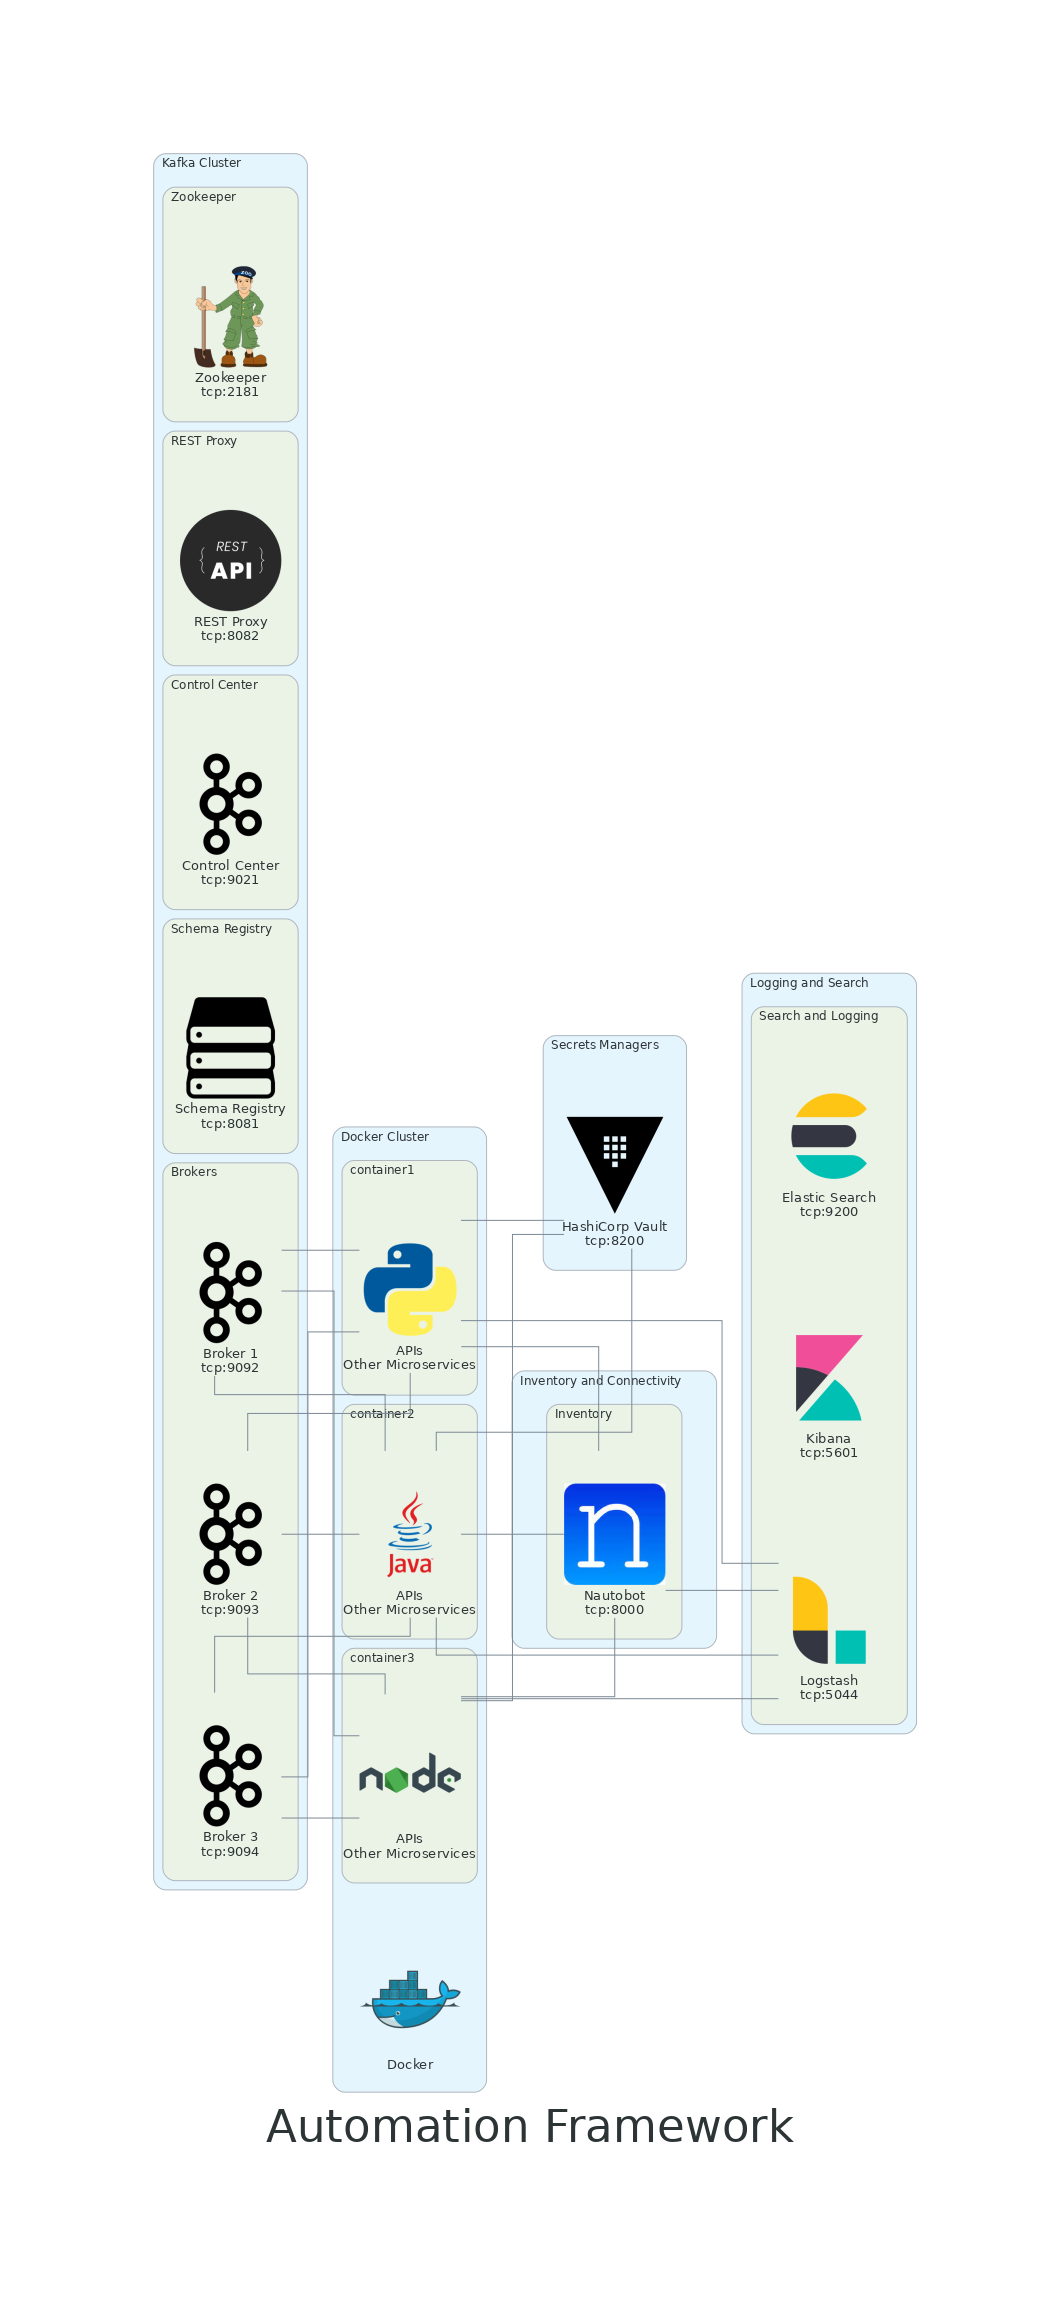
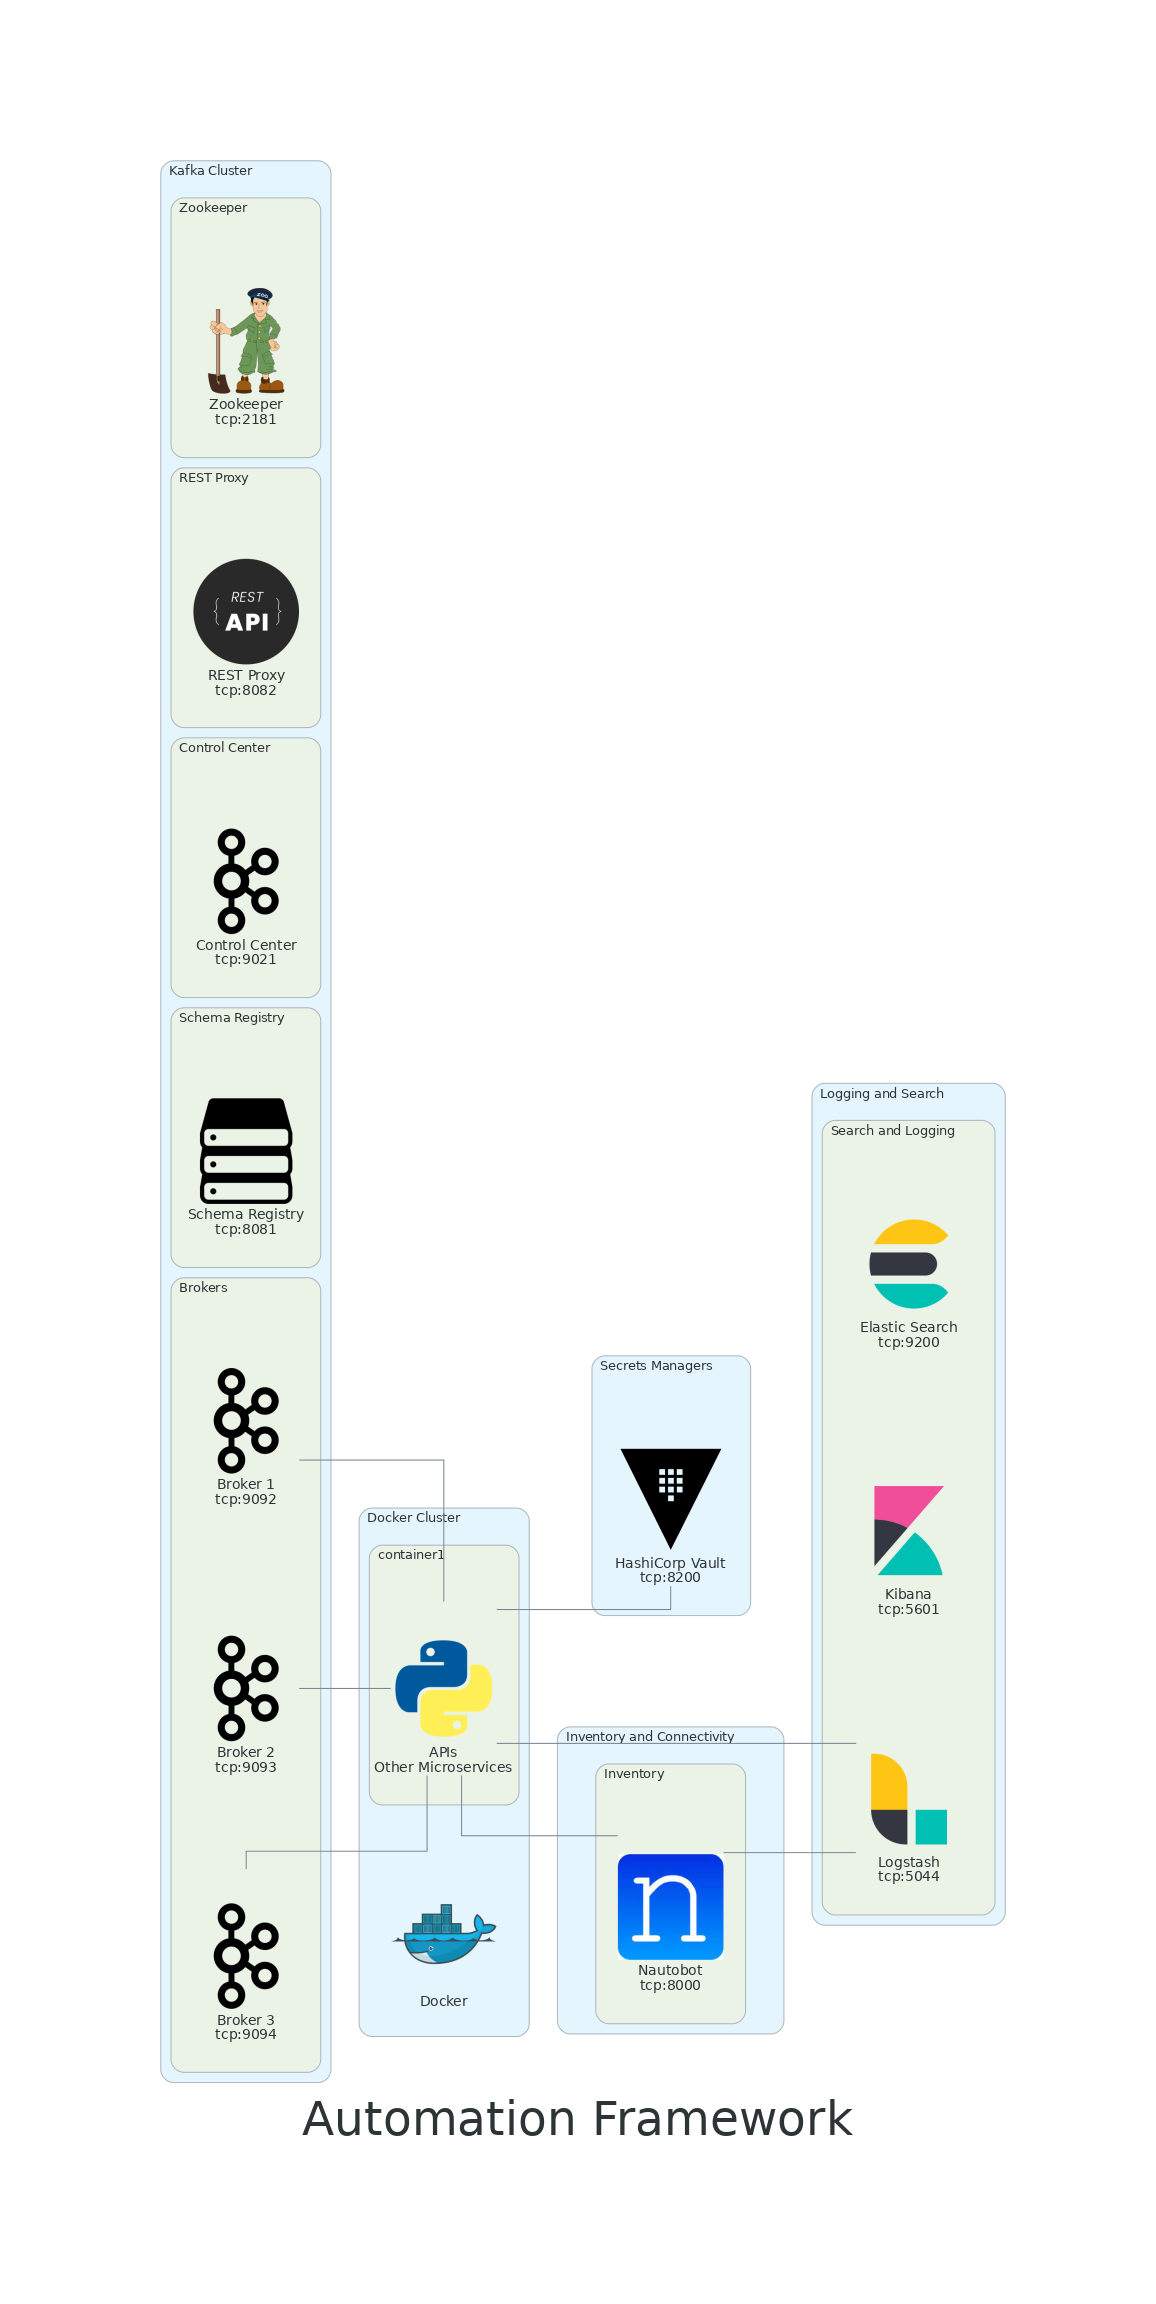
update to diagrams

Changed region(s): [[0.1244, 0.0625, 0.8709, 0.9375]]

diff --git a/diagrams/automation_framework_swarm.py b/diagrams/automation_framework_swarm.py
@@ -21,18 +21,12 @@ def main():
         'ratio': 'expand'
     }
 
-    with Diagram(name='Automation Framework', direction='LR', graph_attr=graph_attr):
+    with Diagram(name='Automation Framework Swarm', direction='LR', graph_attr=graph_attr):
         with Cluster('Docker Cluster'):
             docker = Docker('Docker')
 
             with Cluster('container1'):
                 python_container = Python('APIs\nOther Microservices')
-
-            with Cluster('container2'):
-                java_container = Java('APIs\nOther Microservices')
-
-            with Cluster('container3'):
-                nodejs_container = Nodejs('APIs\nOther Microservices')
 
         with Cluster('Kafka Cluster'):
             with Cluster('Zookeeper'):
@@ -77,21 +71,13 @@ def main():
                 nautobot = Custom('Nautobot\ntcp:8000', 'custom_icons/Nautobot.jpeg')
 
         kafka_brokers - python_container
-        kafka_brokers - java_container
-        kafka_brokers - nodejs_container
 
         python_container - vault
-        java_container - vault
-        nodejs_container - vault
 
         python_container - nautobot
-        java_container - nautobot
-        nodejs_container - nautobot
 
         nautobot - logstash
         python_container - logstash
-        java_container - logstash
-        nodejs_container - logstash
 
 
 if __name__ == '__main__':

diff --git a/diagrams/automation_framework_compose.py b/diagrams/automation_framework_compose.py
@@ -29,12 +29,6 @@ def main():
             with Cluster('container1'):
                 python_container = Python('APIs\nOther Microservices')
 
-            with Cluster('container2'):
-                java_container = Java('APIs\nOther Microservices')
-
-            with Cluster('container3'):
-                nodejs_container = Nodejs('APIs\nOther Microservices')
-
             with Cluster('BatFish'):
                 batfish_container = Custom('BatFish\ntcp:8888\ntcp:9997\ntcp:9996', 'custom_icons/BatFish.png')
 
@@ -90,25 +84,15 @@ def main():
                 ]
 
         kafka_brokers - python_container
-        kafka_brokers - java_container
-        kafka_brokers - nodejs_container
 
         python_container - vault
-        java_container - vault
-        nodejs_container - vault
 
         python_container - nautobot
-        java_container - nautobot
-        nodejs_container - nautobot
 
         nautobot - logstash
         python_container - logstash
-        java_container - logstash
-        nodejs_container - logstash
 
         python_container - mongodb
-        java_container - mongodb
-        nodejs_container - mongodb
 
 
 if __name__ == '__main__':
